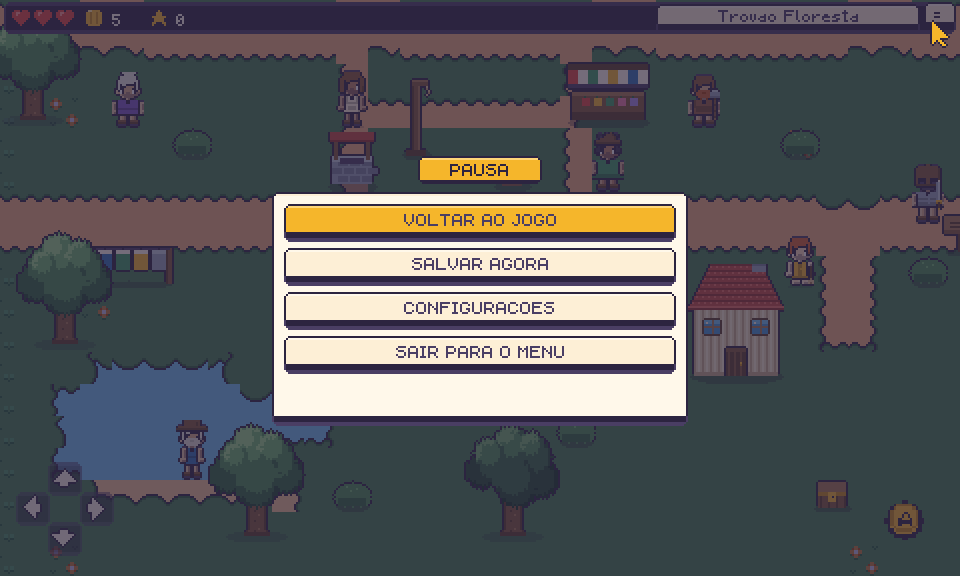
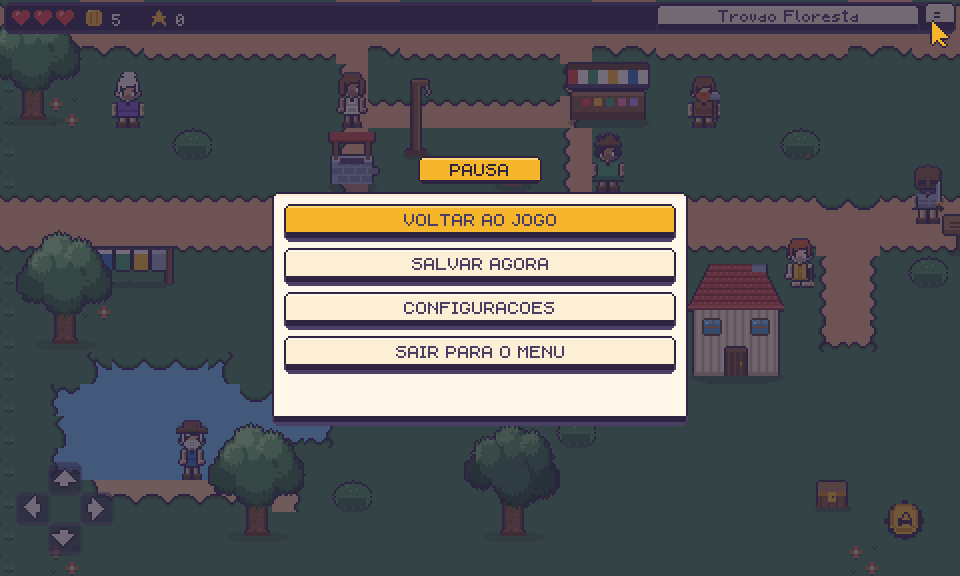
A Casa de Cura ganha comodo por dentro, e o jogador anda ate la e volta
Porta nova na Vila, em frente a casa da Vovo Aurora, leva a um comodo com
cama, prateleira de pocoes e caldeirao. Mundo.ts:conferirSaida() ja era
generico por MAPAS[nome], entao so precisou de mapa e porta novos.

diff --git a/src/dados/mapas.ts b/src/dados/mapas.ts
@@ -190,6 +190,38 @@ export const VILA: Mapa = {
   // "A trilha do leste vai pra Floresta dos Sussurros", diz a placa da vila
   saidas: [
     { x: 35, y: 11, w: 1, h: 2, para: "floresta", entrada: { x: 3, y: 42 } },
+    // a porta da Casa de Cura, bem em frente a casa-vovo (x:2,y:4 em objetos)
+    { x: 2, y: 7, w: 2, h: 1, para: "casa-cura", entrada: { x: 3, y: 5 } },
+  ],
+};
+
+/** O comodo da Vovo Aurora, por dentro. Ver docs/14-casa-de-cura.md: um
+ *  comodo so, pequeno de proposito, sem cama pro heroi -- a fogueira continua
+ *  o unico lugar que revive de verdade.
+ *
+ *  8 x 7 tiles. Parede em W (solida), chao de madeira em m. A brecha na
+ *  parede sul (linha 6, colunas 3-4) e a porta: pisar nela volta pra Vila,
+ *  bem no lugar de onde se entrou. */
+export const CASA_CURA: Mapa = {
+  chao: [
+    "WWWWWWWW",
+    "WmmmmmmW",
+    "WmmmmmmW",
+    "WmmmmmmW",
+    "WmmmmmmW",
+    "WmmmmmmW",
+    "WWWmmWWW",
+  ],
+  objetos: [
+    { nome: "cama", x: 1, y: 1 },
+    { nome: "prateleira-pocoes", x: 4, y: 0 },
+    { nome: "caldeirao", x: 4, y: 4 },
+  ],
+  pessoas: [],
+  entrada: { x: 3, y: 4 },
+  lugar: "Casa de Cura",
+  saidas: [
+    { x: 3, y: 6, w: 2, h: 1, para: "vila", entrada: { x: 3, y: 9 } },
   ],
 };
 
@@ -376,6 +408,7 @@ export const FLORESTA: Mapa = {
 export const MAPAS: Record<string, Mapa> = {
   vila: VILA,
   floresta: FLORESTA,
+  "casa-cura": CASA_CURA,
 };
 
 export type ChaoPronto = number[][];

diff --git a/src/dados/config.ts b/src/dados/config.ts
@@ -72,6 +72,8 @@ export const T = {
   // bordasDeGrama() escolhe entre esta e a de cima medindo a largura real.
   beiraNFina: 36, beiraSFina: 37, beiraLFina: 38, beiraOFina: 39,
   beiraNOFina: 40, beiraNLFina: 41, beiraSOFina: 42, beiraSLFina: 43,
+  // a Casa de Cura, por dentro
+  paredeInterior: 44,
 } as const;
 
 /** Tiles de chao que o heroi nao atravessa. Objeto tem colisao propria.
@@ -79,7 +81,7 @@ export const T = {
  *  `mata` esta aqui e e por isso que a floresta nao precisa de uma caixa de
  *  colisao por arvore: a parede e o chao, e o pinheiro plantado em cima e so
  *  desenho. Umas oitocentas caixas de colisao a menos. */
-export const SOLIDOS = [T.agua, T.agua2, T.pedra, T.paredeCaverna, T.mata, T.barranco];
+export const SOLIDOS = [T.agua, T.agua2, T.pedra, T.paredeCaverna, T.mata, T.barranco, T.paredeInterior];
 
 /** Altura do frame do personagem. Mudou de 24 para 32 na virada de arte. */
 export const ALTURA_PERSONAGEM = 32;
@@ -275,6 +277,7 @@ export const OBJETOS = [
   "fogueira", "bau", "placa", "varal",
   "pinheiro", "pinheiro-baixo", "grande-ouvinte", "arvore-raio", "tronco-caido",
   "toco", "samambaia", "cogumelo", "cogumelo-azul", "pedra-musgo", "teia", "raizes",
+  "cama", "prateleira-pocoes", "caldeirao",
 ] as const;
 
 export const CABELOS = [
